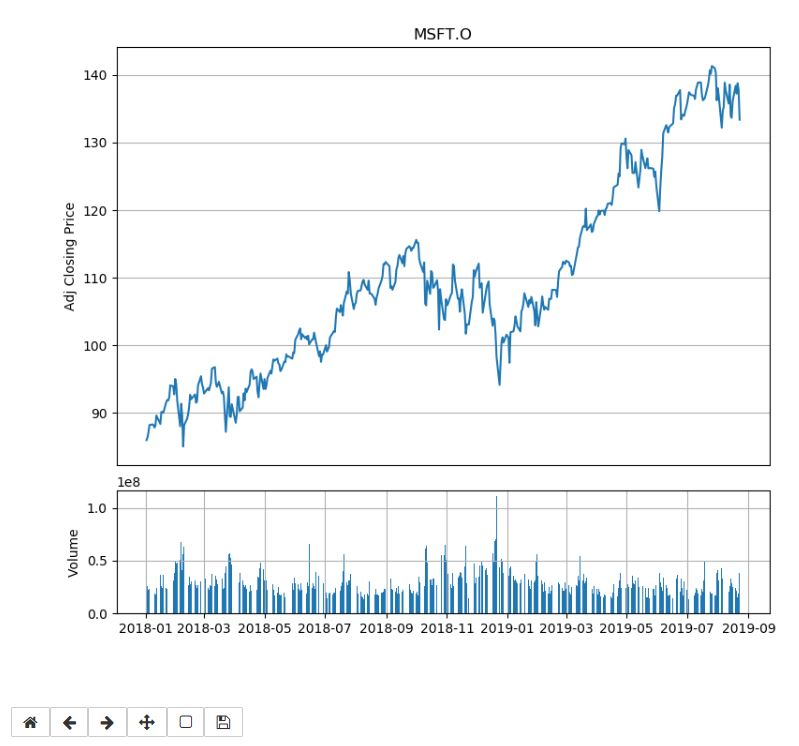
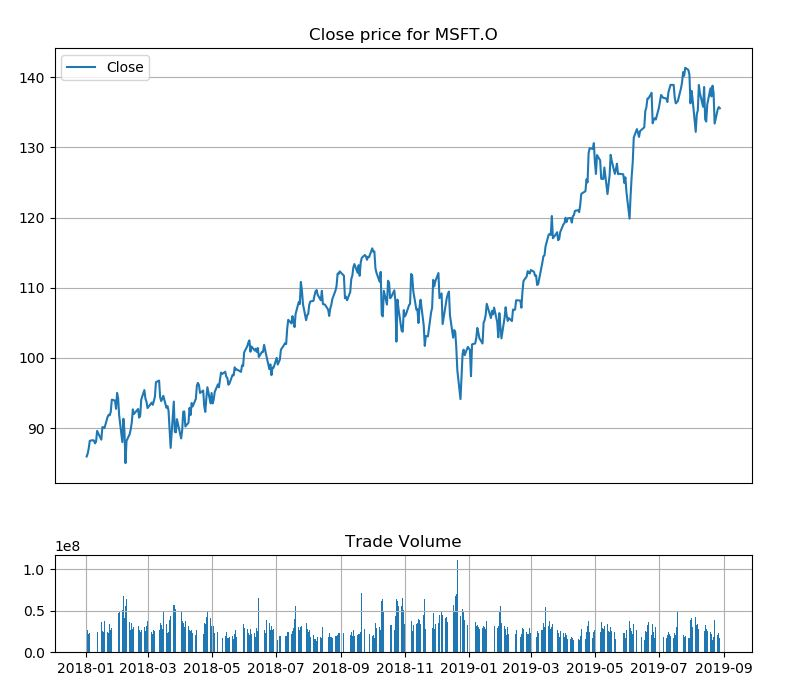
update function generate candlestick remove some codes and update README

diff --git a/README.md b/README.md
@@ -121,7 +121,7 @@ ax.grid(True)
 ax.plot(df_adjustOHLC.index, df_adjustOHLC['CLOSE']) 
 plt.show()
 ```
-![linegraph1](https://raw.githubusercontent.com/Refinitiv-API-Samples/Example.EikonDataAPI.Python.OHLCCandleStickChartNotebook/master/images/linegraph1.JPG)
+![linegraph1](./images/linegraph1.JPG)
 
 ### Plot the Daily Closing Price and Stock Volume
 
@@ -130,29 +130,36 @@ It may useful to review a trading volume to spot for spikes in trading. We can a
 ```python
 df=df_adjustOHLC[['CLOSE','VOLUME']].loc['2018-01-01':datetime.now(),:]
 
-fig = plt.figure(figsize=(9,8),dpi=100)
-top = plt.subplot2grid((4,4), (0, 0), rowspan=3, colspan=4)
-top.grid(True)
+#top graph for daily close price and bottom one is bar graph for stock volumen.
 
+#Set figure size
+fig = plt.figure(figsize=(9,8),dpi=100)
+
+# Set subplot size to 4 row x4 col top graph start from 0,0 to row 3 and last low is for volume
+top = plt.subplot2grid((4,4), (0, 0), rowspan=3, colspan=4)
+top.plot(df.index, df['CLOSE'], label='Close')
+top.grid(True)
+titletxt='Close price for '+itemName
+top.set_title(titletxt)
+top.axes.get_xaxis().set_visible(False)
+#set legend to upper left(2)
+plt.legend(loc=2)
+
+
+#bottom graph(volume) start from row 3, col 0 cover size for 1 last row with 4 column.
 #set sharex to top so we can zoom or pan both graph
 bottom = plt.subplot2grid((4,4), (3,0), rowspan=1, colspan=4,sharex=top)
 bottom.grid(True)
-
-#top graph for daily close price and bottom one is bar graph for stock volumen.
-top.plot(df.index, df['CLOSE']) 
 bottom.bar(df.index, df['VOLUME']) 
- 
-# set the labels
-top.axes.get_xaxis().set_visible(False)
-top.set_title(itemName)
-top.set_ylabel('Adj Closing Price')
-bottom.set_ylabel('Volume')
+plt.title('Trade Volume')
+
+plt.subplots_adjust(hspace=0.75)
 ```
 It will show the following graph.
-![linegraphwithvolume1](https://raw.githubusercontent.com/Refinitiv-API-Samples/Example.EikonDataAPI.Python.OHLCCandleStickChartNotebook/master/images/linegraphwithvolume1.JPG)
+![linegraphwithvolume1](./images/linegraphwithvolume1.JPG)
 
 You can use zoom from toolbar to zoom the graph.
-![linegraphwithvolume2](https://raw.githubusercontent.com/Refinitiv-API-Samples/Example.EikonDataAPI.Python.OHLCCandleStickChartNotebook/master/images/linegraphwithvolume2.JPG)
+![linegraphwithvolume2](./images/linegraphwithvolume2.JPG)
 
 ### Generate a Histogram of the Daily Closing Price
 
@@ -166,13 +173,13 @@ graph=sns.distplot(df['CLOSE'].dropna(), bins=50, color='green')
 graph.set_title(itemName)
 plt.show()
 ```
-![seborn1](https://raw.githubusercontent.com/Refinitiv-API-Samples/Example.EikonDataAPI.Python.OHLCCandleStickChartNotebook/master/images/seborn1.JPG)
+![seborn1](./images/seborn1.JPG)
 
 ## Plot the CandleStick OHLC Chart
 
 Next step we will generate a CandleStick using method candlestick_ohlc from mpl_finance library. Please note that from details in this [link](https://matplotlib.org/api/finance_api.html), module matplotlib.finance is deprecated in 2.0 and has been moved to a module called mpl_finance. It's still working when we have matplotlib version 2.1.2 but this may stop working in any future releases, however, you still be able to use mpl_finance module to use this feature. Note that mpl_finance is no longer maintained.  
 
-To generate the graph we need to pass a dataframe column which contain Open, High, Low and Close price to the method. And there are some additional steps to configuring a tick locating and formatting before plotting the graph. Hence we will add these steps to a new function instead so it can do formatting and generating a graph and then we can re-use this function to plot a moving average later.
+To generate the graph we need to pass a dataframe column which contain Open, High, Low and Close price to the method. And there are some additional steps to configuring a tick locating and formatting before plotting the graph. Hence we will add these steps to a new function instead so it can do formatting and generating a graph and then we can re-use this function to plot a moving average later. Note that below function created based on the [example codes](https://matplotlib.org/examples/pylab_examples/finance_demo.html) provided on [Matplotlib page](https://matplotlib.org).
 
 ```python
 from matplotlib.dates import DateFormatter, WeekdayLocator,DayLocator, MONDAY
@@ -180,30 +187,24 @@ from mpl_finance import candlestick_ohlc
  
 def pandas_candlestick_ohlc(dat, otherseries = None,item_name=None):
     
-    mondays = WeekdayLocator(MONDAY)    
-    alldays = DayLocator()        
-    dayFormatter = DateFormatter('%d') 
+    mondays = WeekdayLocator(MONDAY)    # major ticks on the mondays
+    alldays = DayLocator()              # minor ticks on the days
+    weekFormatter = DateFormatter('%b %d')  # e.g., Jan 12
+    dayFormatter = DateFormatter('%d')      # e.g., 12
     
     plotdat = dat.loc[:,["OPEN", "HIGH", "LOW", "CLOSE"]]
     stick=1
-
+    
+    #Set figure size
     fig = plt.figure(figsize=(10,8),dpi=100)
-    top=plt.subplot2grid((4,4), (0, 0), rowspan=3, colspan=4)
-    top.set_ylabel('Adj Closing Price')
-    bottom = plt.subplot2grid((4,4), (3,0), rowspan=1, colspan=4,sharex=top)
-    
+    top=plt.subplot2grid((5,4), (0, 0), rowspan=4, colspan=4)  
     fig.subplots_adjust(bottom=0.2)
-    
-    if plotdat.index[-1] - plotdat.index[0] < pd.Timedelta('366 days'):
-        weekFormatter = DateFormatter('%b %d')  # e.g., Jan 12
-        top.xaxis.set_major_locator(mondays)
-        top.xaxis.set_minor_locator(alldays)
-    else:
-        weekFormatter = DateFormatter('%b %d, %Y')
-        
-    top.xaxis.set_major_formatter(weekFormatter)
-    top.set_title(item_name)
-    bottom.grid(True)
+    top.xaxis.set_major_locator(mondays)
+    top.xaxis.set_minor_locator(alldays)
+    top.xaxis.set_major_formatter(weekFormatter)    
+    titletxt='CandleStick Chart for '+itemName
+    top.set_title(titletxt)
+
     
     # Create the candelstick chart
     candlestick_ohlc(top, list(zip(list(dates.date2num(plotdat.index.tolist())), plotdat["OPEN"].tolist(), plotdat["HIGH"].tolist(),
@@ -219,11 +220,14 @@ def pandas_candlestick_ohlc(dat, otherseries = None,item_name=None):
     top.xaxis_date()
     top.autoscale_view()
     top.grid(True)
-    plt.setp(plt.gca().get_xticklabels(), rotation=45, horizontalalignment='right')
     top.axes.get_xaxis().set_visible(False)
-   
+    
+    bottom = plt.subplot2grid((5,4), (4,0), rowspan=1, colspan=4,sharex=top)
     bottom.bar(dat.index, dat['VOLUME'])
-    bottom.set_ylabel('Volume')
+    bottom.grid(True)
+    plt.title('Trade Volume')
+    plt.subplots_adjust(hspace=0.75)
+    plt.setp(plt.gca().get_xticklabels(), rotation=45, horizontalalignment='right')
     plt.show()
 ```
 We need to call pandas_candlestick_ohlc and pass a dataframe return from ek.get_timeseries to generate a CandleStick chart.
@@ -236,13 +240,13 @@ df=df_adjustOHLC.loc['2019-01-01':datetime.now(),:]
 pandas_candlestick_ohlc(df,item_name=itemName)
 ```
 It shows the following CandleStick chart from 01/01/2019.
-![candlestick1](https://raw.githubusercontent.com/Refinitiv-API-Samples/Example.EikonDataAPI.Python.OHLCCandleStickChartNotebook/master/images/ohlccandlestick1.JPG)
+![candlestick1](./images/ohlccandlestick1.JPG)
 
 You can use zoom and pan from toolbar to review the graph.
-![candlestick1](https://raw.githubusercontent.com/Refinitiv-API-Samples/Example.EikonDataAPI.Python.OHLCCandleStickChartNotebook/master/images/ohlccandlestick2.JPG)
+![candlestick1](./images/ohlccandlestick2.JPG)
 
-Considering the CandleStick chart.
-![candlestick3](https://raw.githubusercontent.com/Refinitiv-API-Samples/Example.EikonDataAPI.Python.OHLCCandleStickChartNotebook/master/images/ohlccandlestick3.JPG)
+CandleStick chart from a shorter peroid.
+![candlestick3](./images/ohlccandlestick3.JPG)
 
 From a candlestick chart(zoom the graph), a green candlestick indicates a day where the closing price was higher than the open(Gain), while a red candlestick indicates a day where the open was higher than the close (Loss). The wicks indicate the high and the low, and the body the open and close (hue is used to determine which end of the body is open and which the close). You can change the color in pandas_candlestick_ohlc function we have created. And as I said previously, a user can use Candlestick charts for technical analysis and use them to make trading decisions, depending on the shape, color, and position of the candles. We will not cover a technical analysis in this example.
 
@@ -259,7 +263,7 @@ df=df_adjustOHLC.loc['2018-01-01':datetime.now(),:]
 pandas_candlestick_ohlc(df, otherseries = "SMA20d",item_name=itemName)
 ```
 This generate the CandleStick chart and plot the SMA 20 day on the Chart.
-![candlestickma1](https://raw.githubusercontent.com/Refinitiv-API-Samples/Example.EikonDataAPI.Python.OHLCCandleStickChartNotebook/master/images/candlestickma1.JPG)
+![candlestickma1](./images/candlestickma1.JPG)
 
 Moving averages lag behind current price action because they are based on past prices; the longer the time period for the moving average, the greater the lag. Thus, a 200-day MA will have a much greater degree of lag than a 20-day MA because it contains prices for the past 200 days.
 
@@ -274,7 +278,7 @@ df_adjustOHLC["SMA200d"] = np.round(df_adjustOHLC["CLOSE"].rolling(window=200, c
 df=df_adjustOHLC.loc['2018-01-01':'2019-08-05',:]
 pandas_candlestick_ohlc(df, otherseries = ["SMA20d","SMA50d","SMA75d","SMA200d"],item_name=itemName)
 ```
-![candlestickma2](https://raw.githubusercontent.com/Refinitiv-API-Samples/Example.EikonDataAPI.Python.OHLCCandleStickChartNotebook/master/images/candlestickma2.JPG)
+![candlestickma2](./images/candlestickma2.JPG)
 
 There are other types of Moving Average that user can apply with the dataframe to calculate the average value. Many of python open-source package provide the method to calculate MA and [Ta-Lib](https://mrjbq7.github.io/ta-lib/) is one of the libraries which support the calculation and you may try it with the data from the Eikon Data API. However, we do not cover in this example.
 
@@ -287,5 +291,6 @@ This example provides sample codes to call Eikon Data API for retrieving a Time 
 
 * [Eikon Data API Quick Start Guide](https://developers.refinitiv.com/eikon-apis/eikon-data-api/quick-start)
 * [Eikon Data API for Python Developer guide](https://docs-developers.refinitiv.com/1565330791086/14684/book/en/index.html)
+* [Matplotlib Examples](https://matplotlib.org/examples/pylab_examples/finance_demo.html)
 * [What Is a Moving Average Article.](https://www.investopedia.com/terms/m/movingaverage.asp)
 * [Seborn Tutorial](https://seaborn.pydata.org/tutorial/distributions.html)
